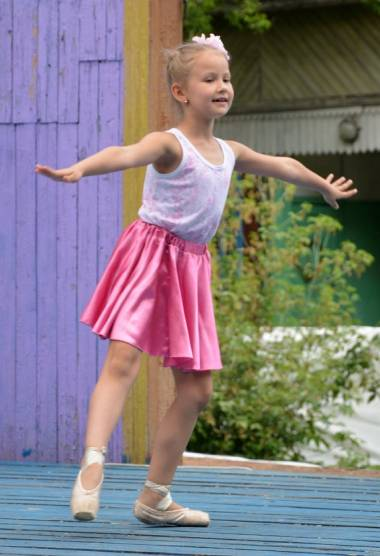
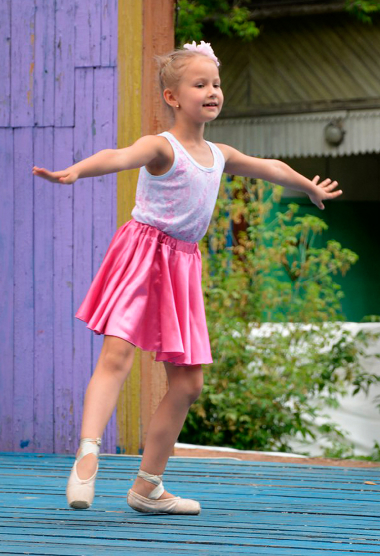
Правки по 10 версии: обновил картинки и фотографии (включая размер 2x).

diff --git a/index.html b/index.html
@@ -81,8 +81,12 @@
 
   <div class="content_wrapper">
     <h3 class="content_title block_title">Смена «Спортивный калейдоскоп»</h3>
-    <img src="images/photo/self-defense.jpg" alt="Приёмы самообороны" class="block_image">
-    <div class="photo_caption_wrapper">
+    <img src="images/photo/self-defense.jpg"
+      srcset="images/photo/self-defense.jpg 1x, images/photo/self-defense-2x.jpg 2x"
+      class="block_image"
+      alt="Приёмы самообороны"
+    >
+      <div class="photo_caption_wrapper">
       <p class="photo_caption">Ребята учатся приёмам самообороны</p>
     </div>
   </div>
@@ -102,7 +106,12 @@
         плаванию, гимнастике.
       </p>
       <div class="shifted_image_block">
-        <img src="images/belt.png" alt="" class="belt_image">
+        <img
+          src="images/black-belt.png"
+          srcset="images/black-belt.png 1x, images/black-belt-2x.png 2x"
+          class="belt_image"
+          alt=""
+        >
         <p class="belt_description">
           <span class="nobr">В лагере</span> преподают
           <br>
@@ -111,7 +120,11 @@
       </div>
     </div>
     <div class="photo_wrapper">
-      <img src="images/photo/gymnastics.jpg" alt="Художественная шимнастика">
+      <img
+        src="images/photo/gymnastics.jpg"
+        srcset="images/photo/gymnastics.jpg 1x, images/photo/gymnastics-2x.jpg 2x"
+        alt="Художественная шимнастика"
+      >
       <div class="photo_caption">
         <span class="nobr">На занятиях</span> <span class="nobr">по художественной</span> гимнастике дети делают
         расстяжку, танцуют <span class="nobr">с обручем</span> <span class="nobr">и лентами</span>
@@ -145,7 +158,11 @@
 
   <div class="content_wrapper details_with_photo dancing">
     <div class="photo_wrapper">
-      <img src="images/photo/dancing.jpg" alt="Концерт в конце смены">
+      <img
+        src="images/photo/dancing.jpg"
+        srcset="images/photo/dancing.jpg 1x, images/photo/dancing-2x.jpg 2x"
+        alt="Концерт в конце смены"
+      >
       <div class="photo_caption">
         <span class="nobr">В конце</span> <span class="nobr">смены —</span> концерт,
         <span class="nobr">на который</span> приходят родители. Ребята сами продумывают номера
@@ -181,7 +198,12 @@
 <div class="block_with_background friendship_section">
   <div class="content_wrapper">
     <h3 class="content_title block_title">Смена «Хоровод дружбы»</h3>
-    <img src="images/photo/national-song.jpg" alt="Народные песни" class="block_image">
+    <img
+      src="images/photo/national-song.jpg"
+      srcset="images/photo/national-song.jpg 1x, images/photo/national-song-2x.jpg"
+      class="block_image"
+      alt="Народные песни"
+    >
     <div class="photo_caption_wrapper">
       <p class="photo_caption">
         <span class="nobr">Под живую</span> музыку дети поют народные песни
@@ -202,7 +224,12 @@
         народные танцы, петь народные песни.
       </p>
       <div class="shifted_image_block">
-        <img src="images/national_belt.png" alt="" class="national_belt_image">
+        <img
+          src="images/national-belt.png"
+          srcset="images/national-belt.png 1x, images/national-belt-2x.png 2x"
+          class="national_belt_image"
+          alt=""
+        >
         <p class="national_belt_description">
           Пояса <span class="nobr">к костюмам</span>
           <br>
@@ -213,7 +240,11 @@
       </div>
     </div>
     <div class="photo_wrapper">
-      <img src="images/photo/national-dance.jpg" alt="Народные танцы">
+      <img
+        src="images/photo/national-dance.jpg"
+        srcset="images/photo/national-dance.jpg 1x, images/photo/national-dance-2x.jpg 2x"
+        alt="Народные танцы"
+      >
       <div class="photo_caption">
         Пока одни дети поют, <span class="nobr">другие —</span> разучивают
         марийские <span class="nobr">и русские</span> народные танцы
@@ -287,8 +318,11 @@
       </p>
     </div>
     <div class="sticker_wrapper">
-      <img src="images/menu-sticker.png" srcset="images/menu-sticker.png 1x, images/menu-sticker-x2.png  2x"
-           alt="Отдельное меню для аллергиков">
+      <img
+        src="images/menu-sticker.png"
+        srcset="images/menu-sticker.png 1x, images/menu-sticker-x2.png  2x"
+        alt="Отдельное меню для аллергиков"
+      >
     </div>
     <div class="menu_wrapper">
       <img src="images/food-menu.jpg" alt="Меню на день" class="food_menu_large">
@@ -320,7 +354,12 @@
       </p>
     </div>
     <div class="notice">
-      <img src="images/origami.png" alt="Оригами" class="notice_image">
+      <img
+        src="images/origami.png"
+        srcset="images/origami.png 1x, images/origami-2x.png 2x"
+        class="notice_image"
+        alt="Оригами"
+      >
       <p class="notice_description">
         <span class="notice_title">Рукоделие</span>
         Дети собирают оригами, занимаются бисероплетением, плетут <span class="nobr">из ниток</span>, делают поделки
@@ -331,7 +370,12 @@
 </div>
 
 <div class="content_wrapper reconstruction_section">
-  <img src="images/photo/reconstruction.jpg" alt="Реконструкция" class="block_image">
+  <img
+    src="images/photo/reconstruction.jpg"
+    srcset="images/photo/reconstruction.jpg 1x, images/photo/reconstruction-2x.jpg 2x"
+    class="block_image"
+    alt="Реконструкция"
+  >
   <div class="photo_caption_wrapper">
     <p class="photo_caption"><span class="photo_caption_title">Реконструкция.</span> <span class="nobr">В лагерь</span>
       приезжают реконструкторы <span class="nobr">из «Древнерусской</span> богатырской заставы»,
@@ -341,7 +385,12 @@
 
 <div class="content_wrapper painting_section">
   <div class="painting">
-    <img src="images/frame.jpg" alt="Картина" class="picture_frame">
+    <img
+      src="images/frame.jpg"
+      srcset="images/frame.jpg 1x, images/frame-2x.jpg 2x"
+      class="picture_frame"
+      alt="Картина"
+    >
     <p class="photo_caption application_caption">
       <span class="photo_caption_title single_line">Рисование</span>
       Педагоги учат рисовать <span class="nobr">с нуля</span> <span class="nobr">в лагере</span> ребёнок нарисует первую
@@ -349,7 +398,11 @@
     </p>
   </div>
   <div class="theater">
-    <img src="images/rabbit.png" alt="Театральное мастерство">
+    <img
+      src="images/rabbit.png"
+      srcset="images/rabbit.png 1x, images/rabbit-2x.png 2x"
+      alt="Театральное мастерство"
+    >
     <p class="photo_caption application_caption">
       <span class="photo_caption_title single_line">Театральное мастерство</span>
       Дети учатся актёрскому мастерству <span class="nobr">и ораторскому</span> искусству.
@@ -360,14 +413,24 @@
 </div>
 
 <div class="content_wrapper activities_section">
-  <img src="images/photo/paintball.jpg" alt="Пейнтбол" class="block_image">
+  <img
+    src="images/photo/paintball.jpg"
+    srcset="images/photo/paintball.jpg 1x, images/photo/paintball-2x.jpg 2x"
+    class="block_image"
+    alt="Пейнтбол"
+  >
   <div class="photo_caption_wrapper">
     <p class="photo_caption"><span class="photo_caption_title">Пейнтбол.</span> Полезная игра
       <span class="nobr">в «стрелялки»:</span> дети активно двигаются,
       учатся работать в команде. Каждому игроку выдаём средства защиты: маски <span class="nobr">и костюмы</span>
     </p>
   </div>
-  <img src="images/photo/pool.jpg" alt="Игры в бассейне" class="block_image">
+  <img
+    src="images/photo/pool.jpg"
+    srcset="images/photo/pool.jpg 1x, images/photo/pool-2x.jpg 2x"
+    class="block_image"
+    alt="Игры в бассейне"
+  >
   <div class="photo_caption_wrapper">
     <p class="photo_caption"><span class="photo_caption_title">Плавание.</span> Дети учатся плавать
       <span class="nobr">и купаются</span> <span class="nobr">в жару</span>.
@@ -386,7 +449,11 @@
       весь лагерь поёт песни <span class="nobr">о лагере</span>. После смены многие записываются
       <span class="nobr">в кружок</span> гитары <span class="nobr">во дворце</span> творчества
     </p>
-    <img src="images/guitar-girl.jpg" alt="Девочка с гитарой">
+    <img
+      src="images/guitar-girl.jpg"
+      srcset="images/guitar-girl.jpg 1x, images/guitar-girl-2x.jpg 2x"
+      alt="Девочка с гитарой"
+    >
   </div>
   <div class="cartoons">
     <img src="images/camera.jpg" alt="Камера">
@@ -402,7 +469,12 @@
 
 <div class="block_with_background">
   <div class="content_wrapper robotics_section">
-    <img src="images/photo/robotics.jpg" alt="Робототехника" class="block_image">
+    <img
+      src="images/photo/robotics.jpg"
+      srcset="images/photo/robotics.jpg 1x, images/photo/robotics-2x.jpg 2x"
+      class="block_image"
+      alt="Робототехника"
+    >
     <div class="photo_caption_wrapper">
       <p class="photo_caption"><span class="photo_caption_title">Робототехника.</span> <span class="nobr">Под руководством</span>
         педагога дети

diff --git a/css/style.css b/css/style.css
@@ -576,9 +576,9 @@ img
     position: absolute;
     width: 593px;
     height: 438px;
-    bottom: -70px;
-    left: -203px;
-    background: url('../images/splash.png') no-repeat;
+    bottom: -109px;
+    left: -183px;
+    background: url('../images/splash-v2.png') no-repeat;
 }
 
 /* Music */
@@ -1233,8 +1233,8 @@ img
 
 .belt_image
 {
-    margin-top: 47px;
-    margin-left: -53px;
+    margin-top: 49px;
+    margin-left: -78px;
 }
 
 .dress_description
@@ -1249,7 +1249,7 @@ img
 .dress_image
 {
     margin-top: -51px;
-    margin-left: 127px;
+    margin-left: 129px;
     max-width: none;
 }
 
@@ -1264,7 +1264,7 @@ img
 
 .national_belt_image
 {
-    margin-top: -30px;
+    margin-top: -29px;
     margin-left: -98px;
     max-width: none;
 }
